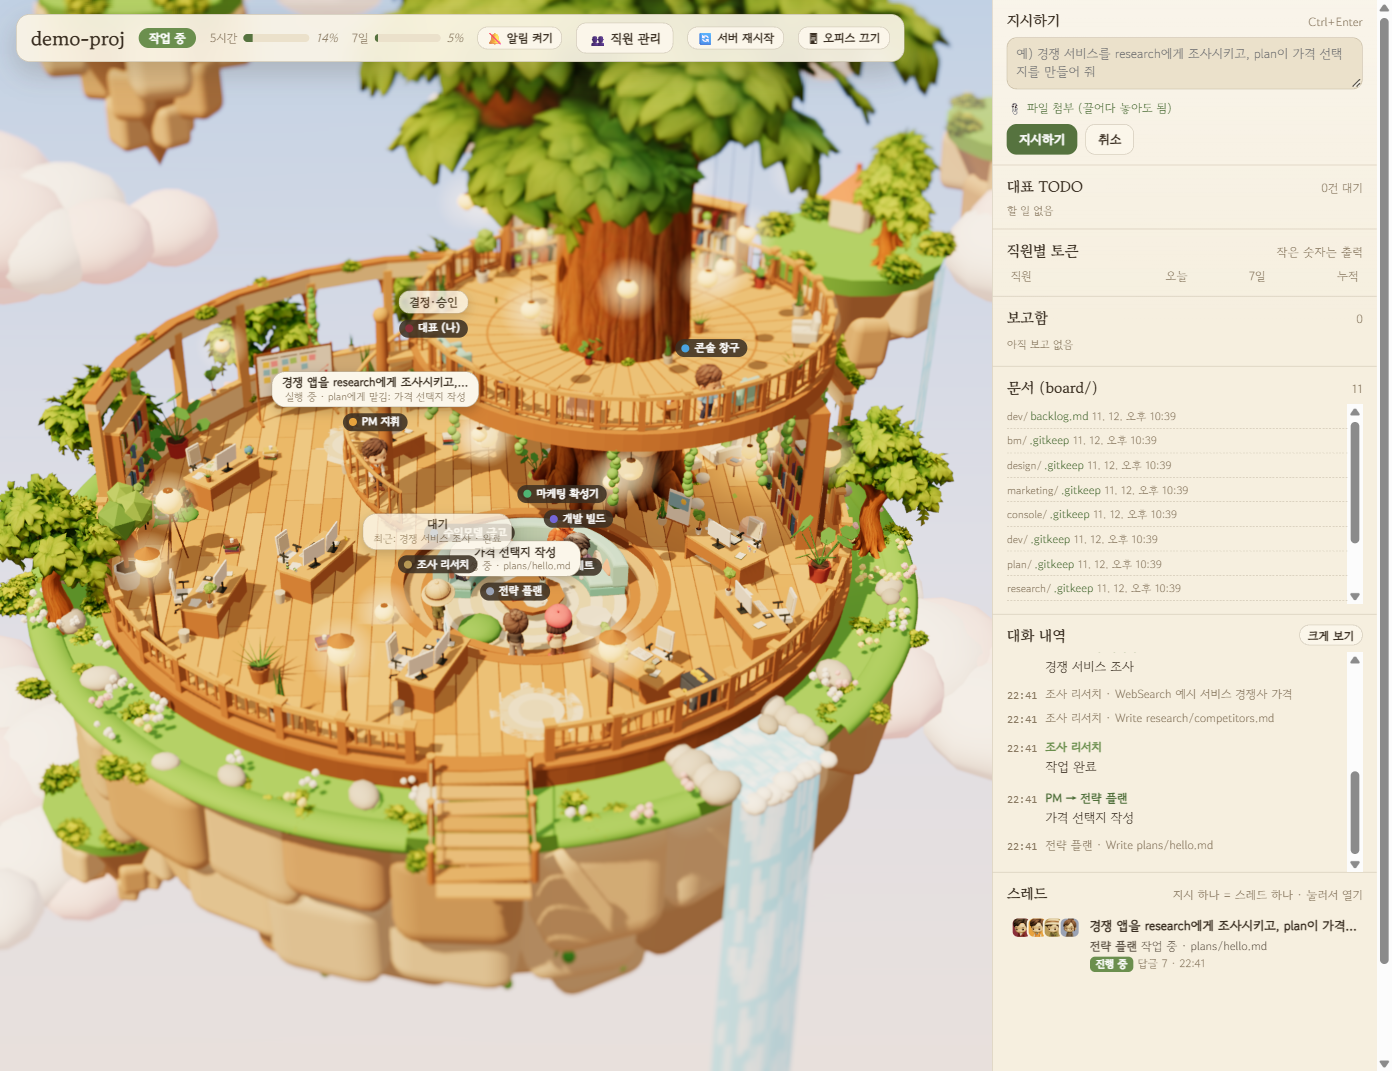
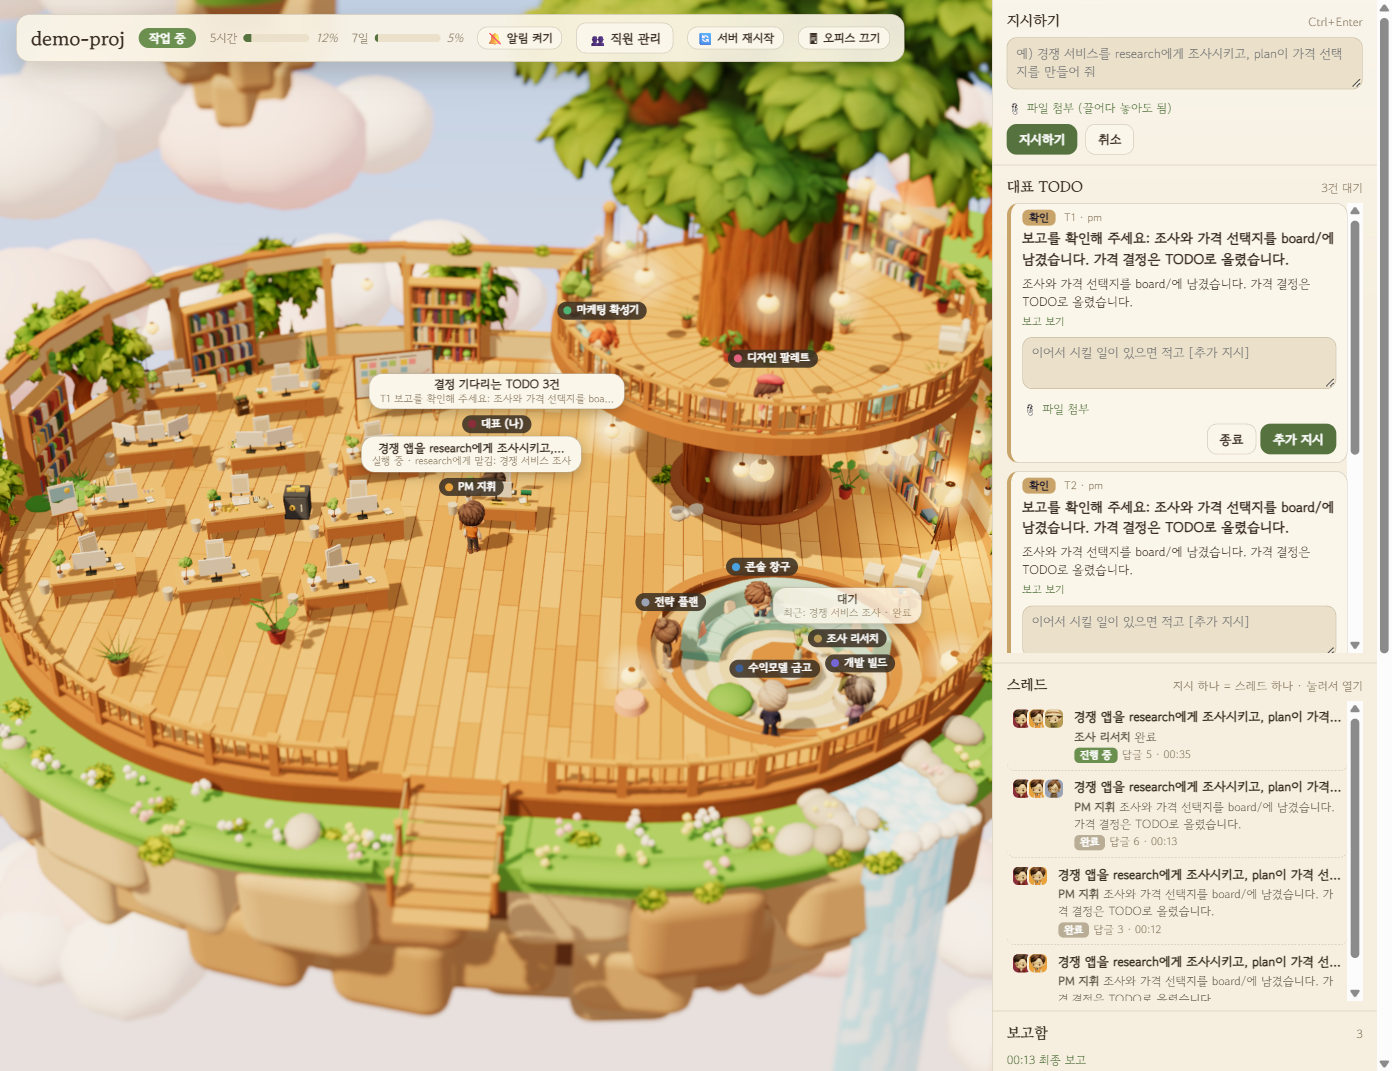
README: 새 1층 배치(대표 가운데·왼쪽 업무 공간·오른쪽 나무와 라운지)·카메라 조작·스레드·직원별 토큰 표 설명, 대표 화면과 직원 관리 스크린샷 교체
Claude-Session: https://claude.ai/code/session_01FTtR7GnK4ACb5yzyg4Jtu3

diff --git a/README.md b/README.md
@@ -2,7 +2,7 @@
 
 Claude Code 안에 **PM 한 명과 역할별 팀원**을 두고, 대표(나)는 지시하고 결정만 하게 만들어 주는 플러그인입니다. 프로젝트 폴더에서 `/ai-office:init` 한 번이면 팀 구성, 업무 규칙, 할 일 보드, 3D 대시보드가 모두 깔립니다.
 
-![작업 중인 AI 오피스: 왼쪽은 하늘섬 3D 오피스, 오른쪽은 지시·대표 TODO·보고함 패널](docs/readme/office.png)
+![작업 중인 AI 오피스: 왼쪽은 하늘섬 3D 오피스, 오른쪽은 지시·대표 TODO·스레드 패널](docs/readme/office.png)
 
 *대표가 "경쟁 앱을 research에게 조사시키고, plan이 가격 선택지를 만들어 줘"라고 지시한 직후의 화면입니다. PM이 일을 나누고, 팀원은 책상에서 일하거나 서류를 들고 오가며, 대표가 결정할 일은 오른쪽 `대표 TODO`에 쌓입니다.*
 
@@ -81,7 +81,9 @@ ai-office는 이것을 **회사처럼** 정리합니다. PM이 지시를 받아 
 **3D 오피스**
 - 팀원은 `.claude/agents/*.md`를 읽어 자기 책상에 앉습니다. 머리 위 말풍선에 지금 하는 일이 보입니다.
 - PM이 일을 맡기면 서류를 들고 걸어가 전달하고, 끝나면 보고서를 들고 돌아옵니다.
-- 일이 없는 팀원은 가운데 라운지나 **나선 계단을 올라 나무 위 2층 데크**에서 쉽니다. 일이 오면 책상으로 돌아갑니다.
+- 대표 자리는 1층 한가운데입니다. 왼쪽은 책상이 늘어선 업무 공간, 오른쪽은 큰 나무와 원형 소파 라운지입니다.
+- 일이 없는 팀원은 라운지 소파나 **나선 계단을 올라 나무 위 2층 데크**에서 쉽니다. 일이 오면 책상으로 돌아갑니다.
+- 화면을 드래그하면 돌아가고, 휠로 확대·축소합니다. 더블클릭하면 처음 구도로 돌아갑니다.
 - 팀원은 역할마다 생김새가 다른 2.5등신 피규어입니다. 걷기, 앉기, 쉬기, 두리번거리기 같은 동작은 모두가 한 벌을 같이 씁니다.
 
 ![역할별 피규어: 콘솔, 대표, PM, 조사, 전략, 개발, 마케팅, 수익모델, 디자인](docs/readme/figures.png)
@@ -90,6 +92,8 @@ ai-office는 이것을 **회사처럼** 정리합니다. PM이 지시를 받아 
 
 ![조사 담당의 히스토리 카드](docs/readme/history.png)
 
+**스레드**: 지시 하나가 스레드 하나가 됩니다. 눌러서 열면 대표·PM·팀원이 주고받은 말이 시간순으로 보이고, 댓글을 달면 PM이 그 맥락을 이어 처리합니다. 진행 중인 일은 `종료`로 멈춥니다.
+
 **대화 내역과 문서 뷰어**: PM과 팀원이 주고받은 말이 오른쪽에 쌓입니다. 마크다운(굵게, 표, 목록, 코드)은 노션처럼 정리해서 보여 주고, `board/` 문서는 눌러서 바로 읽습니다.
 
 <table><tr>
@@ -97,7 +101,7 @@ ai-office는 이것을 **회사처럼** 정리합니다. PM이 지시를 받아 
 <td width="60%"><img src="docs/readme/viewer.png" alt="문서 뷰어: board/plan의 가격 선택지 표"></td>
 </tr></table>
 
-**직원 관리**: 직원마다 얼굴, 역할, 이름, 모델, 노력 수준, 쓴 토큰을 봅니다. 바꾸면 `.claude/agents/*.md`(PM은 `.claude/ai-office.json`)에 저장되고 다음 실행부터 적용됩니다.
+**직원 관리**: 직원마다 얼굴, 역할, 이름, 모델, 노력 수준, 쓴 토큰을 보고, 아래 표에서 직원별 토큰(오늘·7일·누적)을 한눈에 봅니다. 바꾸면 `.claude/agents/*.md`(PM은 `.claude/ai-office.json`)에 저장되고 다음 실행부터 적용됩니다.
 
 ![직원 관리 화면](docs/readme/staff.png)
 
